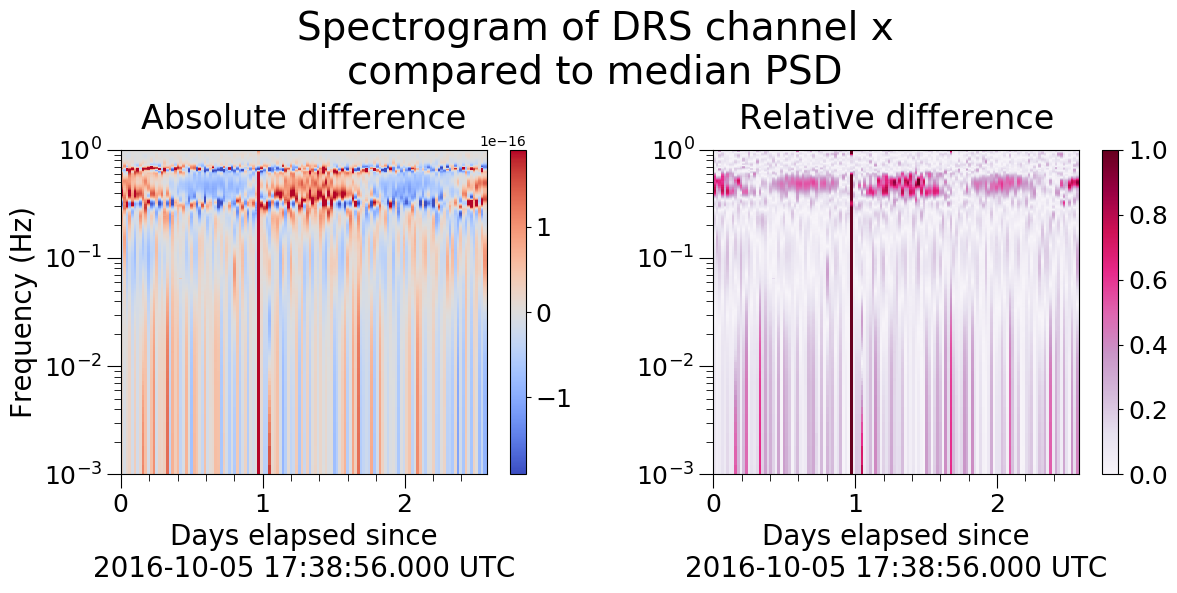
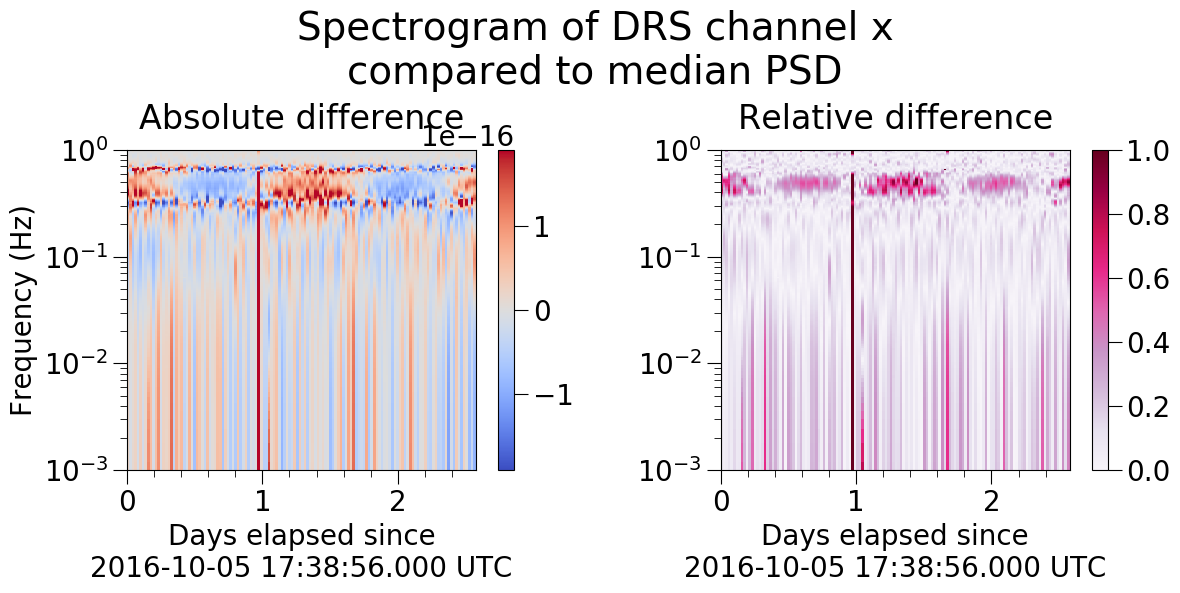
implemented matplotlibrc config in spectrogram plots

diff --git a/src/spectrogram.py b/src/spectrogram.py
@@ -45,21 +45,21 @@ def main():
             if args.title:
                 fig.suptitle(
                     f'Spectrogram of {run.mode.upper()} channel {channel}\n' + \
-                            'compared to median PSD',
-                    fontsize=config.getfloat('Font', 'fig_title_size'))
+                            'compared to median PSD',)
+                    #fontsize=config.getfloat('Font', 'fig_title_size'))
             
             # Subplots
-            axs[0].set_title('Absolute difference', 
-                    fontsize=config.getfloat('Font', 'subplot_title_size'), 
+            axs[0].set_title('Absolute difference',) 
+                    #fontsize=config.getfloat('Font', 'subplot_title_size'), 
                     pad=config.getfloat('Placement', 'subplot_title_pad'))
-            axs[0].set_ylabel('Frequency (Hz)', 
-                    fontsize=config.getfloat('Font', 'ax_label_size'))
+            axs[0].set_ylabel('Frequency (Hz)',) 
+                    #fontsize=config.getfloat('Font', 'ax_label_size'))
             spectrogram(fig, axs[0], run,
                 unstacked.sub(median, axis=0), 
                 cmap=cm.get_cmap('coolwarm'),
             )
-            axs[1].set_title('Relative difference',
-                    fontsize=config.getfloat('Font', 'subplot_title_size'), 
+            axs[1].set_title('Relative difference',)
+                    #fontsize=config.getfloat('Font', 'subplot_title_size'), 
                     pad=config.getfloat('Placement', 'subplot_title_pad'))
             spectrogram(fig, axs[1], run,
                 abs(unstacked.sub(median, axis=0)).div(median, axis=0),
@@ -103,7 +103,7 @@ def main():
                     config.getfloat('Placement', 'fig_y_scale')))
             fig.suptitle(f'Channel {channel}\n' + \
                     'Power compared to median at observed times, frequencies',
-                    y=0.99, fontsize=fig_title_size)
+                    y=0.99,)# fontsize=fig_title_size)
             
             for r, run in enumerate(runs):
                 # Import PSD summaries
@@ -125,13 +125,13 @@ def main():
                 )
                 
                 # Subplot config
-                ax.set_title(f'{run.mode.upper()}', 
-                        size=config.getfloat('Font', 'subplot_title_size'))
-                ax.tick_params(
-                        labelsize=config.getfloat('Font', 'tick_label_size'))
+                ax.set_title(f'{run.mode.upper()}', )
+                        #size=config.getfloat('Font', 'subplot_title_size'))
+                #ax.tick_params(
+                        #labelsize=config.getfloat('Font', 'tick_label_size'))
                 if r==0: # only label y axis on left most plot
-                    ax.set_ylabel('Frequency (Hz)', 
-                            fontsize=config.getfloat('Font', 'ax_label_size'))
+                    ax.set_ylabel('Frequency (Hz)',)
+                            #fontsize=config.getfloat('Font', 'ax_label_size'))
             
             # Set tight layout
             fig.tight_layout(rect=[0, 0, 1, 0.9])
@@ -140,9 +140,9 @@ def main():
             fig.subplots_adjust(right=0.9)
             cbar_ax = fig.add_axes([0.92, 0.15, 0.02, 0.66])
             cbar = fig.colorbar(im, cax=cbar_ax)
-            cbar.ax.tick_params(labelsize=tick_label_size)
+            #cbar.ax.tick_params(labelsize=tick_label_size)
             cbar.set_label('Relative difference from median PSD', labelpad=25, 
-                    rotation=270, fontsize=ax_label_size)
+                    rotation=270,)# fontsize=ax_label_size)
             
             # Save plot
             plot_file = os.path.join(plot_dir, f'spectrogram{i}.png')
@@ -190,17 +190,17 @@ def spectrogram(fig, ax, run, psd, cmap, config,
     ax.set_yscale('log')
     ax.set_ylim(bottom=1e-3, top=1.)
     # Axis labels
-    ax.set_xlabel(f'Days elapsed since\n{run.start_date} UTC', 
-            fontsize=config.getfloat('Font', 'ax_label_size'))
+    ax.set_xlabel(f'Days elapsed since\n{run.start_date} UTC', )
+            #fontsize=config.getfloat('Font', 'ax_label_size'))
     ax.xaxis.set_minor_locator(tkr.AutoMinorLocator())
     # Tick label size
-    ax.tick_params(axis='both', which='major', labelsize=tick_label_size,
-            length=major_tick_length)
-    ax.tick_params(axis='both', which='minor', length=minor_tick_length)
+    ax.tick_params(axis='both', which='major',)# labelsize=tick_label_size,
+            #length=major_tick_length)
+    ax.tick_params(axis='both', which='minor',)# length=minor_tick_length)
     # Add and label colorbar
     if bar:
         cbar = fig.colorbar(im, ax=ax)
-        cbar.ax.tick_params(labelsize=tick_label_size)
+        #cbar.ax.tick_params(labelsize=tick_label_size)
         if cbar_label:
             cbar.set_label(cbar_label, labelpad=15, rotation=270)
         offset = ax.yaxis.get_offset_text()

diff --git a/src/analysis.py b/src/analysis.py
@@ -47,6 +47,10 @@ def main():
     if len(args.runs) == 0: 
         args.runs = glob(f'data{os.sep}*{os.sep}*{os.sep}')
     
+    # Matplotlib RC Config 
+    #plt.style.use('poster.mplstyle')
+    print('Using config file at ' + str(matplotlib.matplotlib_fname()))
+
     # Plot config parser
     config = configparser.ConfigParser(
             interpolation=configparser.BasicInterpolation())
@@ -88,7 +92,7 @@ def main():
         frequencies = np.array([1e-3, 3e-3, 5e-3, 1e-2, 3e-2, 5e-2])
         #plot_tslices(run, df, config)
         #plot_fslices(run, df, frequencies, config)
-        #plot_spectrograms(run, df, config)
+        plot_spectrograms(run, df, config)
         #plot_ffts(run, df, frequencies, config)
 
     if args.compare:
@@ -278,20 +282,11 @@ def spectrogram(fig, ax, run, psd, cmap, config,
     ax.set_yscale('log')
     ax.set_ylim(bottom=1e-3, top=1.)
     # Axis labels
-    ax.set_xlabel(f'Days elapsed since\n{run.start_date} UTC', 
-            fontsize=config.getfloat('Font', 'ax_label_size'))
+    ax.set_xlabel(f'Days elapsed since\n{run.start_date} UTC')
     ax.xaxis.set_minor_locator(tkr.AutoMinorLocator())
-    # Tick label size
-    ax.tick_params(axis='both', which='major', 
-            labelsize=config.getfloat('Font', 'tick_label_size'),
-            length=config.getfloat('Tick', 'major_tick_length'))
-    ax.tick_params(axis='both', which='minor', 
-            length=config.getfloat('Tick', 'minor_tick_length'))
     # Add and label colorbar
     if bar:
         cbar = fig.colorbar(im, ax=ax)
-        cbar.ax.tick_params(labelsize=config.getfloat('Font',
-            'tick_label_size'))
         if cbar_label:
             cbar.set_label(cbar_label, labelpad=15, rotation=270)
         offset = ax.yaxis.get_offset_text()
@@ -313,22 +308,16 @@ def plot_spectrograms(run, df, config):
         fig, axs = plt.subplots(1, 2, figsize=(12, 6))
         fig.suptitle(
             f'Spectrogram of {run.mode.upper()} channel {channel}\n' + \
-                    'compared to median PSD',
-            fontsize=config.getfloat('Font', 'fig_title_size'))
+                    'compared to median PSD',)
         
         # Subplots
-        axs[0].set_title('Absolute difference', 
-                fontsize=config.getfloat('Font', 'subplot_title_size'), 
-                pad=config.getfloat('Placement', 'subplot_title_pad'))
-        axs[0].set_ylabel('Frequency (Hz)', 
-                fontsize=config.getfloat('Font', 'ax_label_size'))
+        axs[0].set_title('Absolute difference')
+        axs[0].set_ylabel('Frequency (Hz)')
         spectrogram(fig, axs[0], run,
             unstacked.sub(median, axis=0), 
             cm.get_cmap('coolwarm'), config
         )
-        axs[1].set_title('Relative difference',
-                fontsize=config.getfloat('Font', 'subplot_title_size'), 
-                pad=config.getfloat('Placement', 'subplot_title_pad'))
+        axs[1].set_title('Relative difference')
         spectrogram(fig, axs[1], run,
             abs(unstacked.sub(median, axis=0)).div(median, axis=0),
             'PuRd', config, vlims=(0,1)
